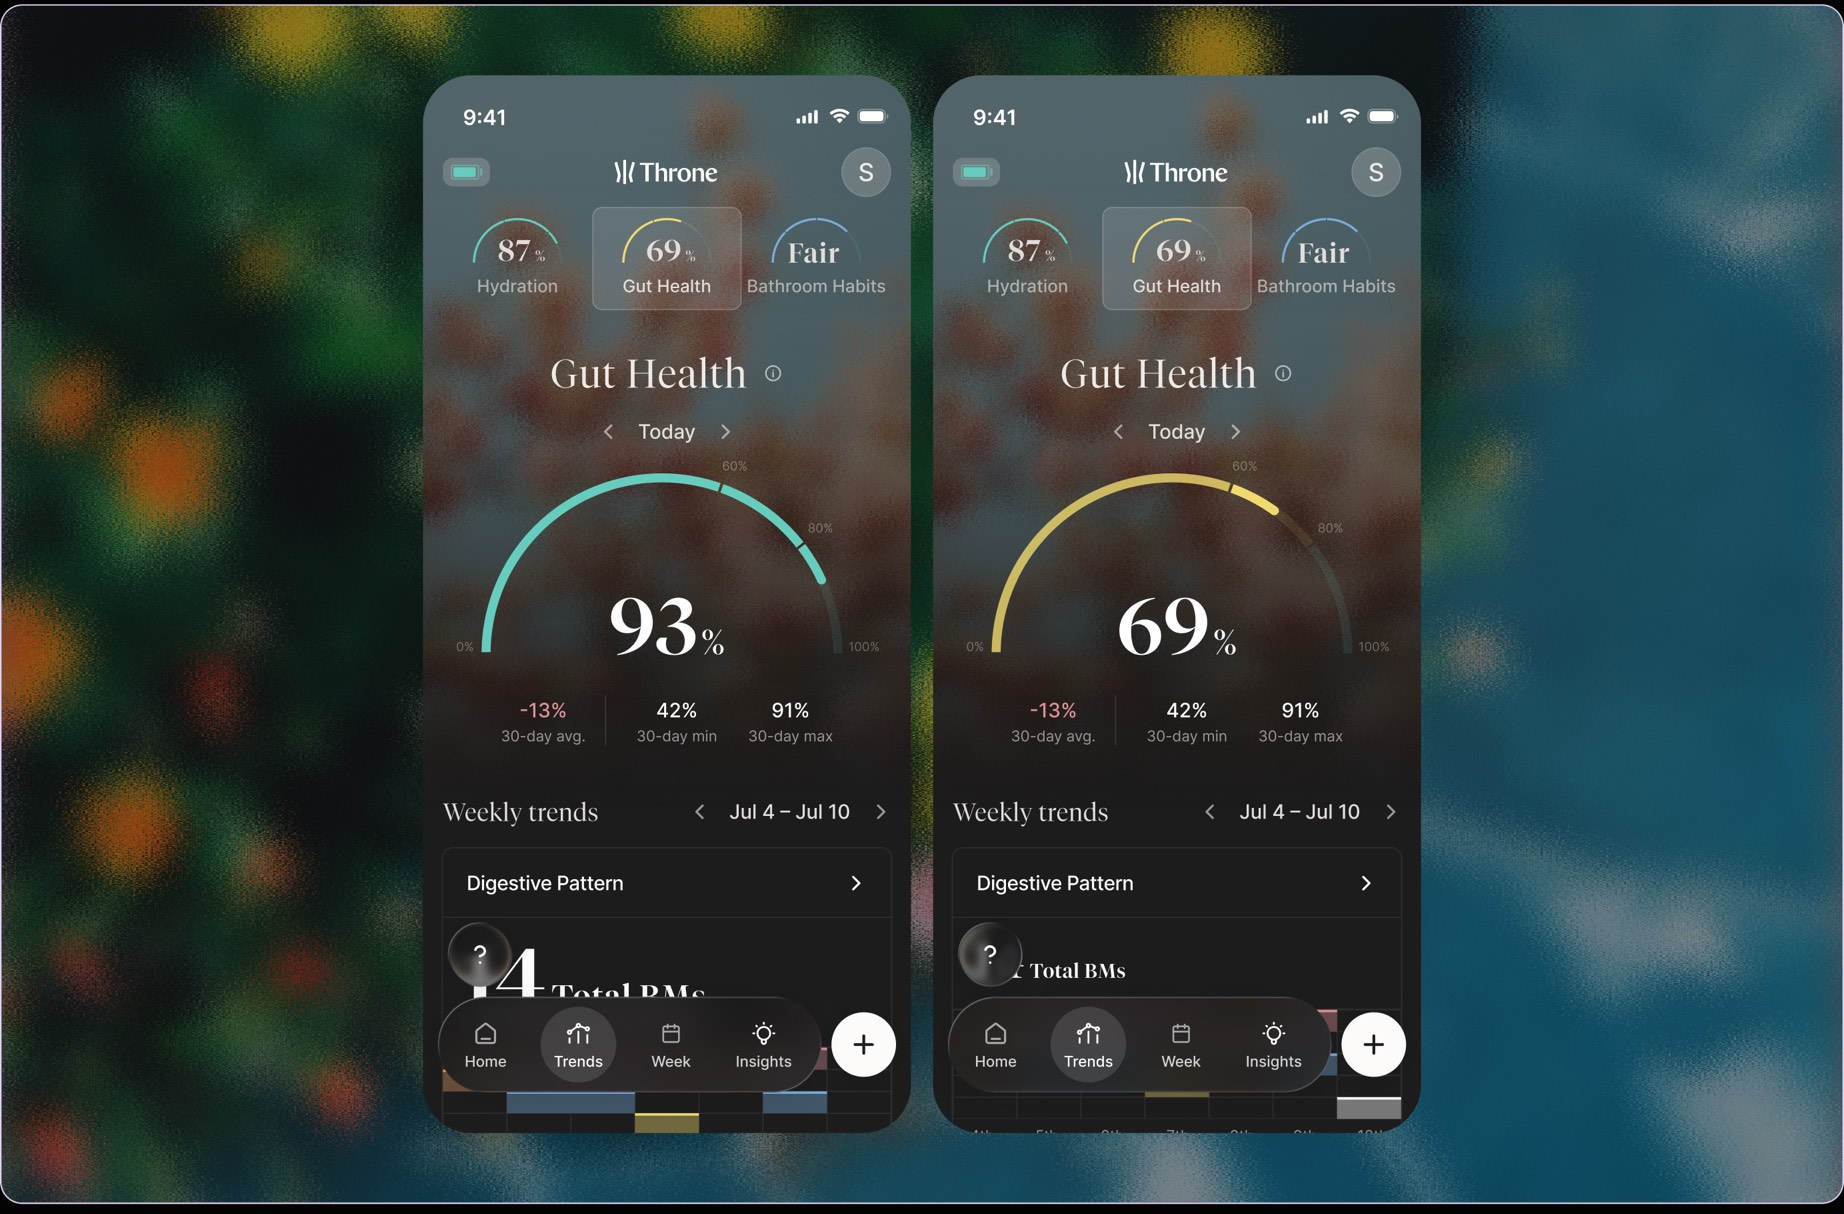
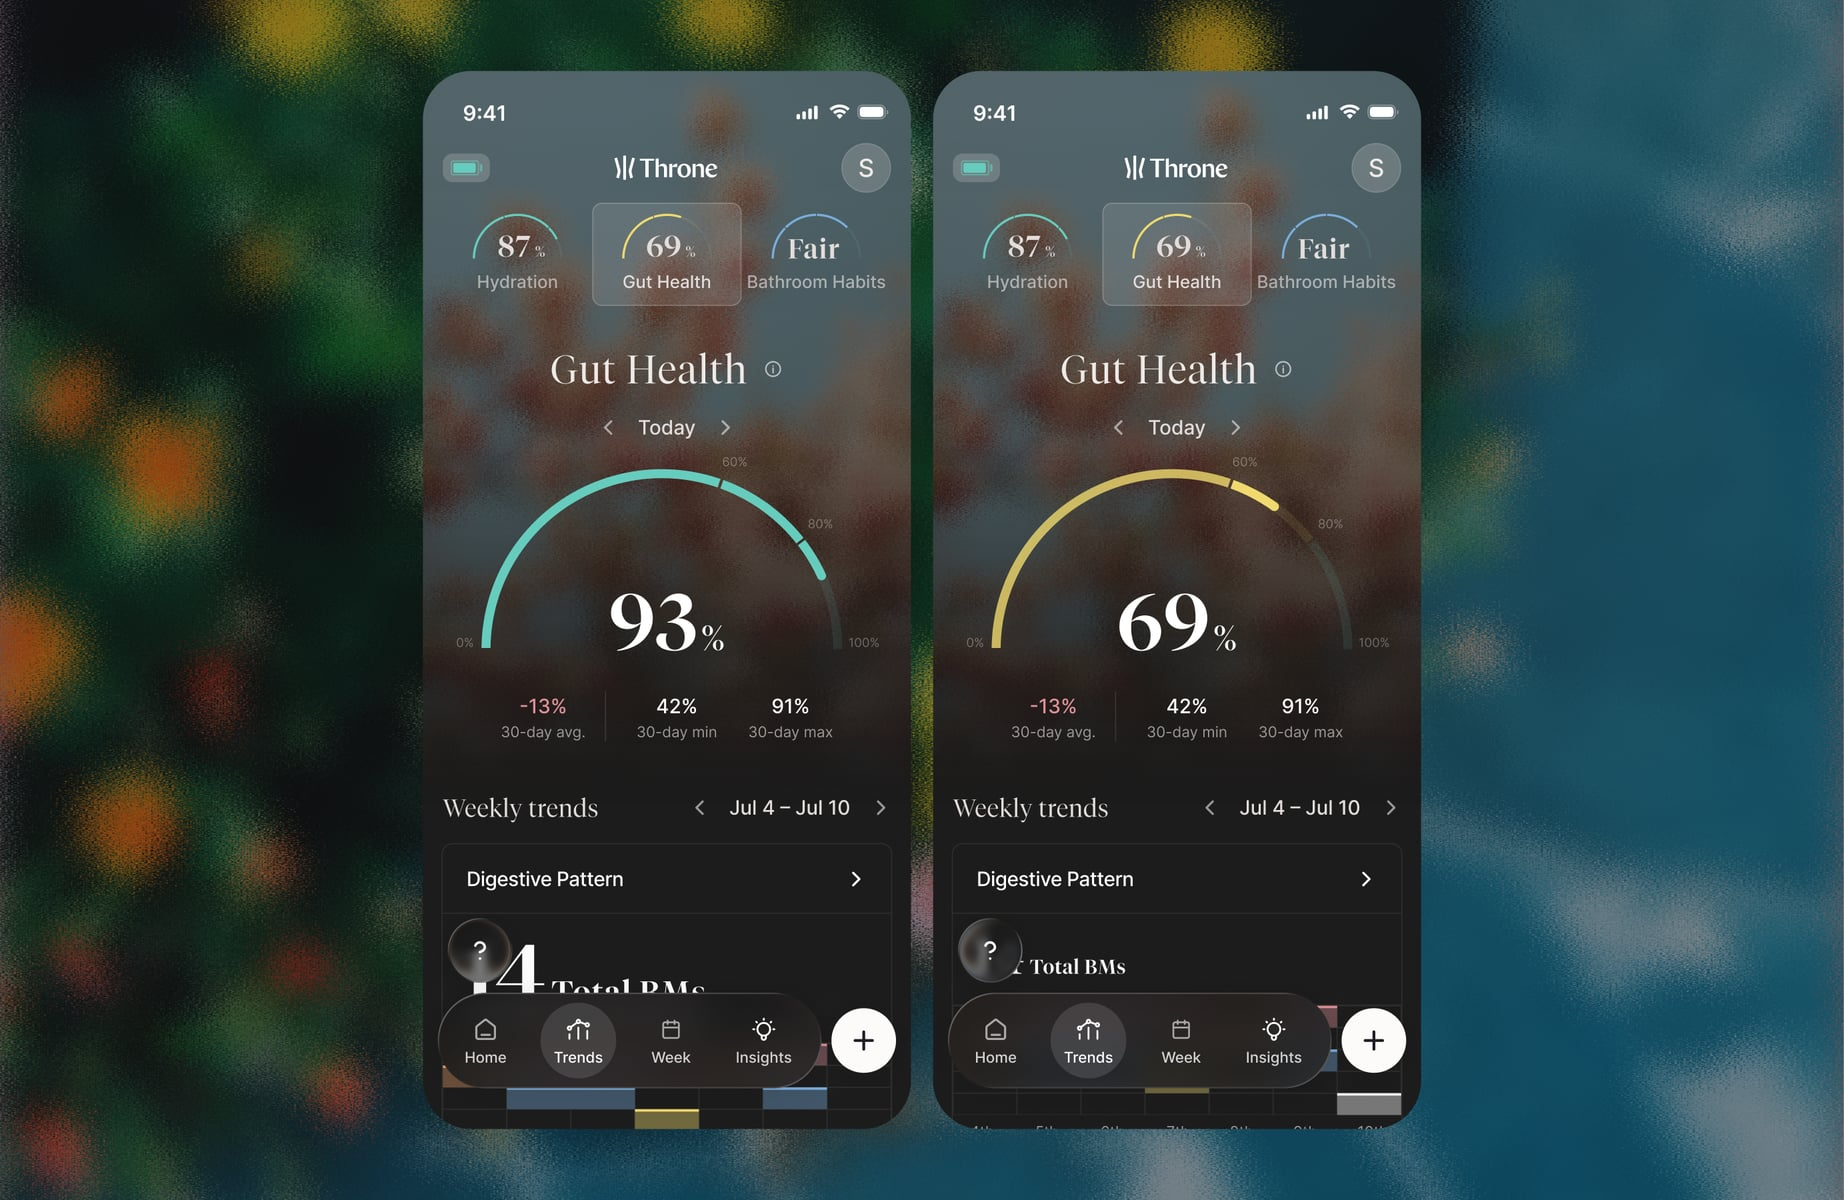
Export the Throne shots square and clean up dashboard-2
The page clips each shot to a squircle, but the frames carried their own
32px circular corner on a black fill (trends: 11px, a stroke and a drop
shadow), so black showed in the corners and trends exported at 607 tall.
All ten are re-exported without corners, stroke or shadow at 2766x1800.

dashboard-2 also had its texture on the whole background frame, which
scattered a speckled band along its edges; the texture now sits on the
photo, after a layer blur, like the right-hand phone.

diff --git a/src/data/cases/throne.ts b/src/data/cases/throne.ts
@@ -23,7 +23,7 @@ export const HERO: HeroContent & { shot: Asset } = {
   badges: ["Consumer health", "2026", "UX", "From pivot to Seed A"],
   shot: shot(
     "trends-1",
-    607,
+    600,
     "Two phones showing the gut health trend: a gauge reading 93 beside the same screen at 69",
   ),
 };
@@ -336,12 +336,12 @@ export const DESIGN: Part[] = [
     shots: [
       shot(
         "trends-2",
-        607,
+        600,
         "Hydration in the same layout, scored 32% “Dehydrated” and 54% “Thirsty”, with osmolality under the gauge",
       ),
       shot(
         "trends-3",
-        602,
+        600,
         "Bathroom habits in that layout, scored in words rather than a number: Poor beside Fair",
       ),
     ],
